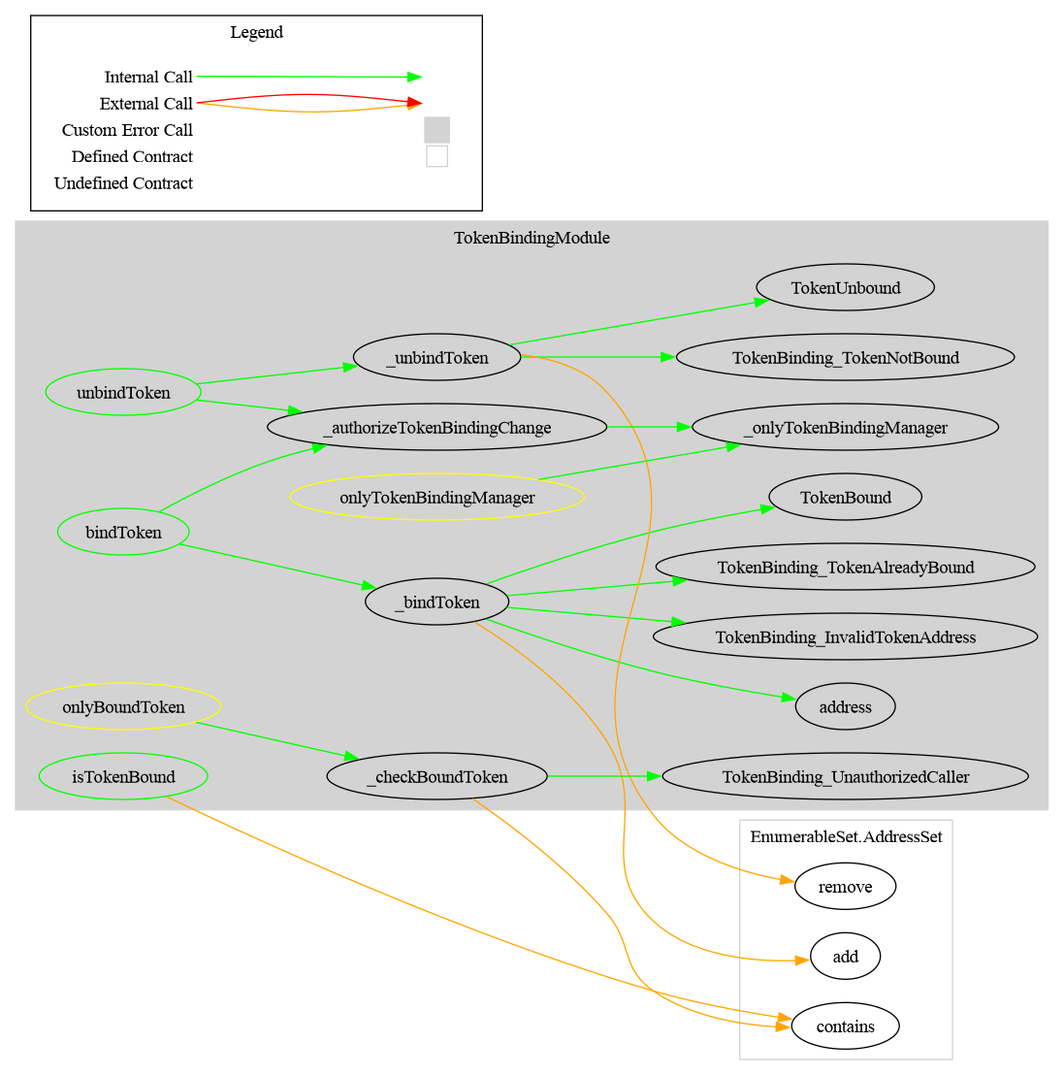
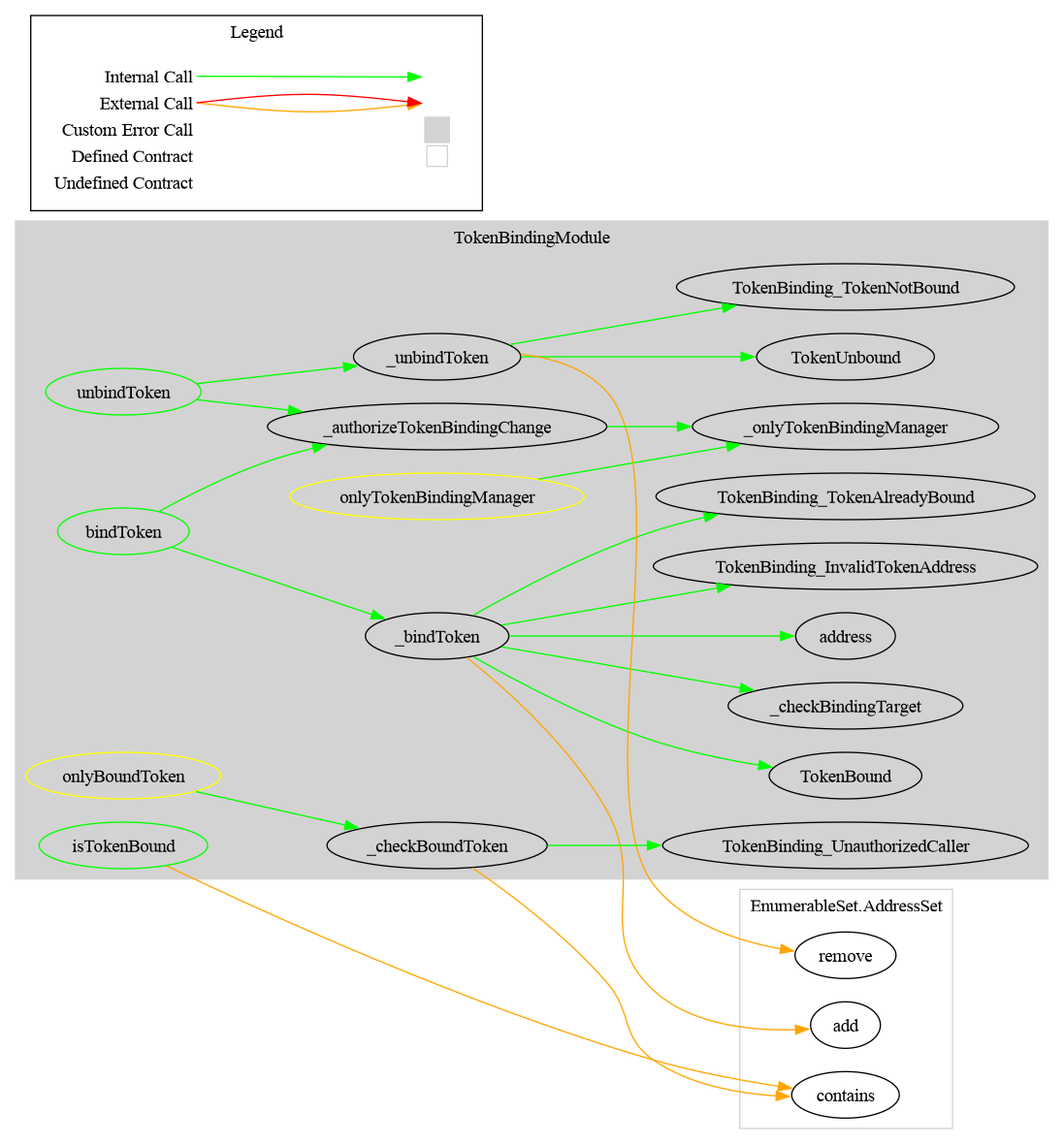
fix: keep rules and bound tokens disjoint - binding a current rule and adding a bound token as a rule now revert, via a new _checkBindingTarget hook in the token binding registry   and a bound-token check in _checkRule; document binding as a trust decision (rc7 security review F-3)

diff --git a/doc/security/audits/tools/v3.0.0-rc7/CLAUDE_AUDIT.md b/doc/security/audits/tools/v3.0.0-rc7/CLAUDE_AUDIT.md
@@ -37,7 +37,7 @@ them, and the codes and messages the views report.
 2. Privileged surface from the Slither printers: every state-changing external function of the six deployables
    and its guard.
 3. Review of each threat against the code and the documentation.
-4. Tests: 86 new tests integrated in the suite, following its convention (a shared base in `test/utils/`, a short
+4. Tests: 105 new tests integrated in the suite, following its convention (a shared base in `test/utils/`, a short
    file per deployable), run in a Docker container (Foundry 1.5.1).
 5. Mutation check: three deliberately broken versions of the code, each caught by a new test.
 6. Adversarial pass, then correction of the findings.
@@ -45,7 +45,7 @@ them, and the codes and messages the views report.
 ## 2. Executive Summary
 
 **0 Critical, 0 High, 0 Medium, 0 Low, 3 Informational** (F-1, F-2, F-3), plus one item already open in the
-code-quality review (F-5). F-1 and F-2 have since been fixed (section 6); F-3 and F-5 remain open. The first pass rated F-1 and F-2 Low; the adversarial pass downgraded them, and
+code-quality review (F-5). F-1, F-2 and F-3 have since been fixed (section 6); F-5 remains open. The first pass rated F-1 and F-2 Low; the adversarial pass downgraded them, and
 dismissed three other items as documented behaviour (F-4, F-6, F-7).
 
 **Cleared hypotheses.** These would have been High or Medium had they held; each was probed and does not:
@@ -68,7 +68,7 @@ dismissed three other items as documented behaviour (F-4, F-6, F-7).
 |----|-------|----------|--------|-----------|-----|
 | F-1 | Pending owner turned rule can accept ownership | Info (was Low) | Fixed | `RuleEngineOwnable2Step.sol:29-32`, inherited `acceptOwnership` | `testNomineeAddedAsRuleBeforeAcceptingBecomesOwner` |
 | F-2 | Self-binding approval survives an administrative unbind | Info (was Low) | Fixed (option 1) | `TokenBindingModule.sol:81`, `TokenBindingExtendedModule.sol:52, 98` | `testApprovedTokenRebindsItselfAfterManagerUnbinds` |
-| F-3 | Any address can be bound, including a rule or an EOA | Info | Open | `TokenBindingModule.sol:100` | `testRuleAddressCanBeBoundAsToken`, `testBoundEoaConsumesStatefulRuleState` |
+| F-3 | Any address can be bound, including a rule or an EOA | Info | Fixed (rules) / documented (EOAs) | `TokenBindingModule.sol:100` | `testCannotBindACurrentRule`, `testCannotAddABoundTokenAsRule`, `testBoundEoaConsumesStatefulRuleState` |
 | F-4 | Views revert when a rule's view reverts | — | Dismissed: documented | `RuleEngineBase.sol:172, 214` | `testViewsRevertWhenARuleViewReverts` |
 | F-5 | `*2771` deployables accept `address(0)` as forwarder | Info | Duplicate of code-quality review `H-3` (open) | constructors of the three `*2771` | `testZeroForwarderIsAccepted` |
 | F-6 | Renouncing administration freezes the configuration | — | Dismissed: OpenZeppelin default, documented | inherited `renounceOwnership` / `renounceRole` | `testRenouncingAdministrationFreezesConfiguration` |
@@ -175,7 +175,7 @@ the token's own unbind fails one.
 ### F-3 — Any address can be bound, including a rule or an EOA (Info)
 
 `_bindToken` checks only for `address(0)` and duplicates. An address can be a rule and a bound token at the same
-time, and a bound externally owned account can drive a stateful rule with no token involved: the PoC consumes a
+time, and a bound **exterwnally** owned account can drive a stateful rule with no token involved: the PoC consumes a
 minter's allowance. Binding is therefore a full trust decision of the manager. A code-size check would not be a
 defence (it is bypassed during construction).
 
@@ -209,6 +209,22 @@ be fixed in code:
   trusted to report token operations; it can drive every stateful rule (consume approvals, allowances, counters)
   without moving any token; bind only the token contracts the engine is meant to serve.
 - `testBoundEoaConsumesStatefulRuleState` stays as the illustration of why.
+
+**Fixed: both parts.**
+
+- **Part 1, code.** `TokenBindingModule._bindToken` calls a new empty hook, `_checkBindingTarget`, which
+  `RuleEngineBase` overrides to reject a current rule; `RuleEngineBase._checkRule` rejects a bound token. Both revert
+  with `RuleEngine_RulesManagementModule_RuleAccountCannotReceivePrivileges`, so the ABI is unchanged and the
+  reusable registry stays free of rule logic.
+- **Coverage of the paths.** Every binding path (`bindToken`, `bindTokens`, a rule binding itself with an
+  approval) and every rule path (`addRule`, `setRules`) goes through one of the two checks.
+- **Part 2, documentation.** The `bindToken` NatSpec, the registry's `_bindToken` NatSpec and
+  `TokenBinding-module.md` §4 state that binding is a trust decision.
+- **Tests, on all six deployables.** The proof of concept became `testCannotBindACurrentRule` and
+  `testCannotAddABoundTokenAsRule`; `testRuleAndTokenRolesCanBeSwappedSequentially` covers the legitimate
+  sequences; the invariant handler now also tries to bind rule addresses, with a new
+  `invariant_RulesAndBoundTokensAreDisjoint`. Removing either check fails its regression test and the invariant.
+  `testBoundEoaConsumesStatefulRuleState` stays as the documented illustration.
 
 ### F-4 — Views revert when a rule's view reverts (dismissed)
 
@@ -245,7 +261,7 @@ interface and is documented in `RuleEngine-with-ERC3643.md`.
 | INV-5 | Token identity is `msg.sender`, never the forwarder's appended sender | Yes | ERC-2771 token-gate suites, 3 deployables |
 | INV-6 | Every admin entry point rejects every other caller | Yes | `testFuzz_NonAuthorizedCallerCannotAdminister`, 11 functions, 6 × 256 runs; mutation-checked |
 | INV-7 | `canTransfer == (detectTransferRestriction == 0)`, and the 4-argument equivalent | Yes | rule-aggregation fuzz, 6 deployables |
-| INV-8 | An address in the rule set cannot be granted a role or become owner | Yes for roles and ownership; not applied to binding (F-3) | checked at grant, at nomination and, since the F-1 fix, at `Ownable2Step` acceptance (`RuleGuard.t.sol`, mutation-checked) |
+| INV-8 | An address in the rule set cannot be granted a role, become owner, or be bound as a token, and a bound token cannot become a rule | Yes | checked at grant, at nomination, at `Ownable2Step` acceptance (F-1) and at binding / rule addition (F-3); `RuleGuard.t.sol`, `invariant_RulesAndBoundTokensAreDisjoint` (6 deployables), mutation-checked |
 | INV-9 | `getTokenBounds()` holds no duplicate and no `address(0)` | Yes | `invariant_BoundTokensMatchModel`, 6 deployables |
 
 The handler-based invariants run in the default suite at 64 sequences of 50 calls; they also passed once at
@@ -257,7 +273,7 @@ Foundry's defaults (256 × 500, 128 000 calls each).
 |---|---|---|---|
 | `addRule`, `removeRule`, `setRules`, `clearRules` | `RULES_MANAGEMENT_ROLE` | owner | fuzz × 6 |
 | `setMaxRules` | `DEFAULT_ADMIN_ROLE` | owner | fuzz × 6, mutation-checked |
-| `bindToken`, `unbindToken` | `COMPLIANCE_MANAGER_ROLE`, or an approved token for itself | owner, or an approved token for itself | fuzz × 6, existing self-binding tests |
+| `bindToken`, `unbindToken` | `COMPLIANCE_MANAGER_ROLE`, or an approved token for itself; a current rule cannot be bound | owner, or an approved token for itself; a current rule cannot be bound | fuzz × 6, existing self-binding tests |
 | `bindTokens`, `unbindTokens`, `setTokenSelfBindingApproval(Batch)` | `COMPLIANCE_MANAGER_ROLE` | owner | fuzz × 6 |
 | `transferred` (3/4), `created`, `destroyed` | bound token (`msg.sender`) | same | fuzz × 6, mutation-checked |
 | `grantRole` | role admin; the target must not be a rule | — | existing tests |
@@ -273,25 +289,26 @@ call any administrative function, even from inside its callback.
 
 ## 6. Remediation — What Was Implemented
 
-Two findings were fixed after the review; the others are open.
+Three findings were fixed after the review; F-5 (H-3) is open.
 
 | Item | Status | What changed | Verified by |
 |---|---|---|---|
 | F-1 | Fixed | `RuleEngineOwnable2Step.acceptOwnership` re-checks that the caller is not a rule (inherited by `RuleEngineOwnable2Step2771`). Behaviour change: a nominee that became a rule can no longer accept until it is removed from the rule set | PoC inverted into a regression test, plus a recovery test, on both deployables; removing the check makes both fail |
 | F-2 | Fixed | A manager's `unbindToken` / `unbindTokens` revokes the token's self-binding approval (`_unbindToken` override, single approval write path). Behaviour change: an ERC-3643 token unbound by the manager needs a new approval before it can bind itself; a token unbinding itself keeps its approval | PoC inverted into a regression test, plus batch, self-unbind and event tests on six deployables; mutation-checked |
-| F-3 | Open | Behaviour unchanged; pinned on six deployables | `SecurityReview.t.sol` |
+| F-3 | Fixed (rules) / documented (EOAs) | `_checkBindingTarget` hook in `TokenBindingModule`, overridden in `RuleEngineBase` to reject a current rule; `_checkRule` rejects a bound token; NatSpec and `TokenBinding-module.md` document binding as a trust decision. Behaviour change: an address can no longer be both a rule and a bound token | PoC inverted into two regression tests, plus a sequencing test and a new handler invariant on six deployables; mutation-checked |
 | F-5 / H-3 | Open | Behaviour unchanged; pinned on three deployables | `ERC2771VariantTestBase` |
 | Access control, unbound callers | Verified | New fuzz tests on six deployables | mutation-checked |
 
-**Tests added.** 86 tests: `test/utils/SecurityReviewTestBase.sol` (13 tests, run by `test/<Variant>/SecurityReview.t.sol`
-for the six deployables), `test/utils/Ownable2StepRuleGuardTestBase.sol` (3 tests, run by `RuleGuard.t.sol` for the
+**Tests added.** 105 tests: `test/utils/SecurityReviewTestBase.sol` (15 tests, run by `test/<Variant>/SecurityReview.t.sol`
+for the six deployables), `invariant_RulesAndBoundTokensAreDisjoint` in `test/utils/RuleEngineInvariantTestBase.sol`
+(six deployables), `test/utils/Ownable2StepRuleGuardTestBase.sol` (3 tests, run by `RuleGuard.t.sol` for the
 two `Ownable2Step` deployables), `testZeroForwarderIsAccepted` in `test/utils/ERC2771VariantTestBase.sol` (three
-`*2771` deployables), and two test-only rules, `RevertingViewRule` and `ReentrantAdminRule`. Suite: 592 tests, all
+`*2771` deployables), and two test-only rules, `RevertingViewRule` and `ReentrantAdminRule`. Suite: 610 tests, all
 passing; the real T-REX suite: 13, all passing; coverage of `src/` at 100% of lines, statements,
-branches (50/50) and functions.
+branches (54/54) and functions.
 
 Several new tests pin today's behaviour of an open item. When an item is fixed, its PoC is expected to fail and must
-be inverted into a regression test, as was done for F-1 and F-2: applying each fix made its PoC fail, and the PoC
+be inverted into a regression test, as was done for F-1, F-2 and F-3: applying each fix made its PoC fail, and the PoC
 was then rewritten to assert the fixed behaviour.
 
 ## 7. Potential Improvements (open backlog)
@@ -300,12 +317,7 @@ These are hardening items, not vulnerabilities.
 
 | # | Improvement | Addresses | Effort | Breaking? | Priority |
 |---|---|---|---|---|---|
-| 1 | Keep rules and bound tokens disjoint: a binding hook overridden in `RuleEngineBase`, and a bound-token check in `_checkRule` (F-3 part 1) | F-3 | Small | Rejects two configurations accepted today | Low |
-| 2 | Document binding as a full trust decision: EOAs and arbitrary contracts are accepted and can drive stateful rules (F-3 part 2) | F-3 | Docs | No | Low |
-| 3 | Decide `H-3`: reject `address(0)` as forwarder in the three `*2771` constructors (not in `ERC2771ModuleStandalone`, which the mock rules use with zero) | F-5 | Small | Constructor rejects a value it accepts today | Low |
-
-Item 1 changes which configurations the engine accepts (an address can no longer be both a rule and a bound
-token), so it is a decision for the maintainers rather than a defect fix.
+| 1 | Decide `H-3`: reject `address(0)` as forwarder in the three `*2771` constructors (not in `ERC2771ModuleStandalone`, which the mock rules use with zero) | F-5 | Small | Constructor rejects a value it accepts today | Low |
 
 ## 8. Scope & Duplicate Check
 

diff --git a/CHANGELOG.md b/CHANGELOG.md
@@ -120,7 +120,7 @@ Commit:
 
 Security hardening of the ERC-2771 token-identity checks, and ERC-2771 becomes opt-in: each access-control model is split into a contract without ERC-2771 (`RuleEngine`, `RuleEngineOwnable`, `RuleEngineOwnable2Step`) and a `*2771` contract with the trusted forwarder (`RuleEngine2771`, `RuleEngineOwnable2771`, `RuleEngineOwnable2Step2771`). The trusted forwarder can no longer pass as a token: the bound-token gate and the token self-binding check now compare `msg.sender`. The CMTAT submodule moves to v3.3.0-rc4 and the ERC-3643 submodule to T-REX 4.2.0-beta1, which is now tested end-to-end in a dedicated Foundry profile. The CMTAT / Rules documentation is corrected and completed. `version()` now carries the release-candidate suffix. The code-quality review fixes add a narrower `IRule` interface (the previous one is still accepted), one error fewer, the deployables grouped in `src/deployment/accessControl/` and `src/deployment/ownable/`, and invariant tests.
 
-rc7 is **not** a drop-in update from rc6: it changes three constructors, who may call the token callbacks, the `version()` string, the source paths of the deployables, the error set, the `IRule` ERC-165 ID that new rules advertise, and what a manager's unbind does to a token's self-binding approval. Each is listed below with what to do.
+rc7 is **not** a drop-in update from rc6: it changes three constructors, who may call the token callbacks, the `version()` string, the source paths of the deployables, the error set, the `IRule` ERC-165 ID that new rules advertise, what a manager's unbind does to a token's self-binding approval, and whether an address may be both a rule and a bound token. Each is listed below with what to do.
 
 ### Breaking change
 
@@ -128,6 +128,7 @@ rc7 is **not** a drop-in update from rc6: it changes three constructors, who may
 - **Token callbacks and token self-binding are no longer relayable through the ERC-2771 forwarder.** `transferred`, `created` and `destroyed` (`onlyBoundToken`), and a token's own `bindToken` / `unbindToken(this)`, now identify the token by `msg.sender` instead of `_msgSender()`. A call that the trusted forwarder relays with a token address appended is rejected (`TokenBinding_UnauthorizedCaller`, or the binding-manager check for the self-binding path). Real tokens are unaffected, because they always call the engine directly. Only a setup that relayed token callbacks through the forwarder breaks, and no legitimate setup does. Administrative functions are unchanged and remain relayable.
 - **`version()` return value format.** It now returns `"3.0.0-rc7"` instead of `"3.0.0"`. An integration that compares the string literally (deployment checks, indexers, upgrade scripts) must be updated, and must expect the suffix to change at each release candidate.
 - **A manager unbind revokes self-binding approval.** An ERC-3643 token unbound by the binding manager must be approved again (`setTokenSelfBindingApproval`) before it can bind itself through `setCompliance`. Tokens that unbind themselves are unaffected. See Security.
+- **An address can no longer be both a rule and a bound token.** `bindToken` / `bindTokens` reject a current rule and `addRule` / `setRules` reject a bound token (`RuleEngine_RulesManagementModule_RuleAccountCannotReceivePrivileges`). A deployment that bound a rule address, or used a bound token as a rule, must choose one role. See Security.
 - **Deployable source paths.** The six deployables moved from `src/deployment/` to `src/deployment/accessControl/` (`RuleEngine`, `RuleEngine2771`) and `src/deployment/ownable/` (the four ownable contracts). A project that imports them, or a script that names the file (`forge create src/deployment/RuleEngine.sol:RuleEngine`), must update the path. Contract names, constructors and ABIs are unchanged.
 - **Error removed: `RuleEngine_RulesManagementModule_OperationNotSuccessful`.** It could not be triggered (the checks before it always reverted first), so no transaction emitted it, but it disappears from the ABI. Off-chain decoders that list the engine's errors (indexers, monitoring, block explorers, scripts that map a selector to a revert reason) should drop it. Duplicate and absent rules still revert with `RuleEngine_RulesManagementModule_RuleAlreadyExists` and `RuleEngine_RulesManagementModule_RuleDoNotMatch`.
 - **`IRule` ERC-165 ID: `0xb1a69752` for new rules, `0x2497d6cb` still accepted.** `IRule` no longer requires `canTransfer` / `canTransferFrom`, so `RuleInterfaceId.IRULE_INTERFACE_ID` changes from `0x2497d6cb` to `0xb1a69752`. Existing rules need no change: the rc7 engine accepts both IDs. The reverse is not true: a rule compiled against rc7 that advertises only `RuleInterfaceId.IRULE_INTERFACE_ID` is rejected by an rc6 or older engine (`RuleEngine_RuleInvalidInterface`). A rule meant to work with both generations advertises both IDs (`RuleInterfaceId.IRULE_LEGACY_INTERFACE_ID` is provided for that).
@@ -138,6 +139,7 @@ rc7 is **not** a drop-in update from rc6: it changes three constructors, who may
 - **The trusted ERC-2771 forwarder can no longer act as a token.** `TokenBindingModule._checkBoundToken` (the `onlyBoundToken` gate) and the token self-binding check in `TokenBindingExtendedModule._authorizeTokenBindingChange` compared `_msgSender()`, so a trusted forwarder could append a token's address and pass as that token. It could (a) call `transferred` / `created` / `destroyed` with no token movement, driving stateful rules, for example consuming a per-minter mint quota or a one-time transfer approval; and (b) call `unbindToken(token)` for a token approved for self-binding, after which every operation of that token reverted until it was re-bound. Both checks now compare the raw `msg.sender`; a token never calls through a forwarder. A signature-verifying forwarder could not produce these calls, because a token cannot sign, so the exposure was limited to a buggy, malicious or permissive forwarder. This aligns with CMTAT's `onlyTokenBridge` and with CMTAT's RuleEngine integration guide. The administrative checks keep `_msgSender()`, so gasless administration is unchanged.
 - **`RuleEngineOwnable2Step` re-checks the rule-account guard in `acceptOwnership`.** The check that keeps rule contracts away from ownership ran only at nomination (`transferOwnership`), so an address nominated while it was not a rule, then added as a rule, could still accept and own the engine. `acceptOwnership` now reverts with `RuleEngine_RulesManagementModule_RuleAccountCannotReceivePrivileges` in that case; the transfer completes once the address is removed from the rule set. Applies to `RuleEngineOwnable2Step2771` too. Required two actions by the trusted owner. rc7 security review `F-1` ([CLAUDE_AUDIT.md](./doc/security/audits/tools/v3.0.0-rc7/CLAUDE_AUDIT.md)).
 - **An administrative unbind revokes the token's self-binding approval.** `unbindToken` and `unbindTokens` called by the binding manager now also clear the token's self-binding approval (`TokenBindingExtendedModule._unbindToken`, emitting `TokenSelfBindingApprovalSet(token, false)`). Before, an approved token could bind itself again right after the manager unbound it, undoing the manager's decision. A token unbinding itself keeps its approval, so ERC-3643 `setCompliance` migrations are unchanged. The approval setter now goes through `_setTokenSelfBindingApproval`, the single write path of the per-token event. rc7 security review `F-2` ([CLAUDE_AUDIT.md](./doc/security/audits/tools/v3.0.0-rc7/CLAUDE_AUDIT.md)).
+- **Rules and bound tokens are kept disjoint.** Binding a current rule (`bindToken`, `bindTokens`, or a rule binding itself with a self-binding approval) now reverts with `RuleEngine_RulesManagementModule_RuleAccountCannotReceivePrivileges`, and so does adding a bound token as a rule (`addRule`, `setRules`). Binding lets an address drive every rule, so a rule that was also a bound token could call the engine's callbacks from inside its own `transferred` hook. Implemented with a new empty hook in the reusable registry, `TokenBindingModule._checkBindingTarget`, overridden by `RuleEngineBase`, and a bound-token check in `RuleEngineBase._checkRule`. The NatSpec and `TokenBinding-module.md` now state that binding is a trust decision: an EOA or any other contract can still be bound. rc7 security review `F-3` ([CLAUDE_AUDIT.md](./doc/security/audits/tools/v3.0.0-rc7/CLAUDE_AUDIT.md)).
 
 ### Changed
 

diff --git a/doc/technical/TokenBinding-module.md b/doc/technical/TokenBinding-module.md
@@ -61,6 +61,7 @@ Two hooks are left to the embedding contract:
 |---|---|---|
 | `_onlyTokenBindingManager()` | access control for binding administration | abstract, must be implemented |
 | `_authorizeTokenBindingChange(address token)` | authorizes one bind/unbind | manager check |
+| `_checkBindingTarget(address token)` | host-specific restriction on which addresses may be bound; reverts to reject | empty (`RuleEngineBase` rejects current rules) |
 
 A minimal deployment therefore only has to wire its access control model:
 
@@ -119,6 +120,13 @@ These are properties of the registry itself, not of any standard built on it.
 - **Binding and unbinding are not idempotent.** Re-binding a bound token reverts with
   `TokenBinding_TokenAlreadyBound`, and unbinding an unbound one with `TokenBinding_TokenNotBound`, so a
   redundant administrative call is reported rather than silently accepted.
+- **Binding is a trust decision.** A bound address can drive every stateful downstream check (consume
+  approvals, allowances, counters) without moving any token. The registry cannot tell a token contract from an
+  EOA or any other contract, and a code-size check would not help: it is false for a contract under
+  construction, and it would block binding a token before it is deployed at a counterfactual (CREATE2) address.
+  Bind only the token contracts the host is meant to serve. The RuleEngine adds one restriction through
+  `_checkBindingTarget`: an address that is currently a rule cannot be bound, and `_checkRule` rejects a bound
+  token as a rule, so the two sets stay disjoint.
 - **An administrative unbind revokes the self-binding approval.** When the binding manager unbinds a token
   (`unbindToken` or `unbindTokens`), `TokenBindingExtendedModule._unbindToken` also clears the token's
   self-binding approval and emits `TokenSelfBindingApprovalSet(token, false)`, so the token cannot undo the

diff --git a/AGENTS.md b/AGENTS.md
@@ -349,7 +349,8 @@ Key points:
 5. **Admin has all roles** in `RuleEngine` and `RuleEngine2771` (the `hasRole` override in `RuleEngine`, inherited by `RuleEngine2771`)
 6. **Forwarder is immutable** — set at construction, cannot be changed (the three `*2771` contracts; the others have none)
 7. **Token identity uses `msg.sender`, never `_msgSender()`** — `_checkBoundToken` (`onlyBoundToken`) and the token self-binding check in `_authorizeTokenBindingChange` compare the raw caller so the ERC-2771 forwarder cannot pass as a token; administrative checks keep `_msgSender()` (gasless admin). Pinned by `test/utils/ERC2771TokenGateTestBase.sol`
-8. **Rule contracts in `src/mocks/` are reference implementations** — they are useful for testing and examples, not as production rule contracts. Production rules live in a [separate repository](https://github.com/CMTA/Rules).
+8. **Rules and bound tokens are disjoint** — `RuleEngineBase._checkBindingTarget` rejects binding a current rule and `_checkRule` rejects adding a bound token as a rule, both with `RuleEngine_RulesManagementModule_RuleAccountCannotReceivePrivileges`. Pinned by `invariant_RulesAndBoundTokensAreDisjoint`
+9. **Rule contracts in `src/mocks/` are reference implementations** — they are useful for testing and examples, not as production rule contracts. Production rules live in a [separate repository](https://github.com/CMTA/Rules).
 
 ## Solidity Style
 

diff --git a/CLAUDE.md b/CLAUDE.md
@@ -349,7 +349,8 @@ Key points:
 5. **Admin has all roles** in `RuleEngine` and `RuleEngine2771` (the `hasRole` override in `RuleEngine`, inherited by `RuleEngine2771`)
 6. **Forwarder is immutable** — set at construction, cannot be changed (the three `*2771` contracts; the others have none)
 7. **Token identity uses `msg.sender`, never `_msgSender()`** — `_checkBoundToken` (`onlyBoundToken`) and the token self-binding check in `_authorizeTokenBindingChange` compare the raw caller so the ERC-2771 forwarder cannot pass as a token; administrative checks keep `_msgSender()` (gasless admin). Pinned by `test/utils/ERC2771TokenGateTestBase.sol`
-8. **Rule contracts in `src/mocks/` are reference implementations** — they are useful for testing and examples, not as production rule contracts. Production rules live in a [separate repository](https://github.com/CMTA/Rules).
+8. **Rules and bound tokens are disjoint** — `RuleEngineBase._checkBindingTarget` rejects binding a current rule and `_checkRule` rejects adding a bound token as a rule, both with `RuleEngine_RulesManagementModule_RuleAccountCannotReceivePrivileges`. Pinned by `invariant_RulesAndBoundTokensAreDisjoint`
+9. **Rule contracts in `src/mocks/` are reference implementations** — they are useful for testing and examples, not as production rule contracts. Production rules live in a [separate repository](https://github.com/CMTA/Rules).
 
 ## Solidity Style
 

diff --git a/doc/technical/RuleEngine-with-CMTAT.md b/doc/technical/RuleEngine-with-CMTAT.md
@@ -207,7 +207,7 @@ operation and the token's views, so it is trusted for availability too. See CMTA
 [`ruleengine-integration.md`](https://github.com/CMTA/CMTAT/blob/v3.3.0-rc4/doc/technical/ruleengine-integration.md) §"Deployment Coverage".
 
 Do not grant `RULES_MANAGEMENT_ROLE` to a rule contract — the engine blocks granting any role
-to an address currently configured as a rule, but the check is one-directional and does not stop an already privileged address from later being added as a rule. The ownable variants apply the same check to a new owner, and `RuleEngineOwnable2Step` applies it both when the owner is nominated and when it accepts.
+to an address currently configured as a rule, but the check is one-directional and does not stop an already privileged address from later being added as a rule. The ownable variants apply the same check to a new owner, and `RuleEngineOwnable2Step` applies it both when the owner is nominated and when it accepts. Binding is checked in both directions: a current rule cannot be bound as a token, and a bound token cannot be added as a rule.
 
 ### 4.7 The trusted forwarder cannot act as a token
 

diff --git a/doc/README.md b/doc/README.md
@@ -853,6 +853,7 @@ constructor(
 | └ | _detectTransferRestrictionFrom | Internal 🔒 |   | |
 | └ | _messageForTransferRestriction | Internal 🔒 |   | |
 | └ | _checkRule | Internal 🔒 |   | |
+| └ | _checkBindingTarget | Internal 🔒 |   | |
 | └ | _supportsRuleInterface | Internal 🔒 |   | |
 | └ | _supportsRuleEngineBaseInterface | Internal 🔒 |   | |
 
@@ -1231,6 +1232,7 @@ under `ERC3643ComplianceExtendedModule`, since that is the form in which the Rul
 | └ | unbindToken | Public ❗ | 🛑  |NO❗ |
 | └ | isTokenBound | Public ❗ |   |NO❗ |
 | └ | _bindToken | Internal 🔒 | 🛑  | |
+| └ | _checkBindingTarget | Internal 🔒 |   | |
 | └ | _unbindToken | Internal 🔒 | 🛑  | |
 | └ | _authorizeTokenBindingChange | Internal 🔒 | 🛑  | |
 | └ | _onlyTokenBindingManager | Internal 🔒 | 🛑  | |

diff --git a/doc/schema/surya/surya_report/surya_report_TokenBindingModule.sol.md b/doc/schema/surya/surya_report/surya_report_TokenBindingModule.sol.md
@@ -5,7 +5,7 @@
 
 |  File Name  |  SHA-1 Hash  |
 |-------------|--------------|
-| ./modules/TokenBindingModule.sol | 27df27b3fdd6edab220948b1871b0ae1c0ecbb42 |
+| ./modules/TokenBindingModule.sol | 290217014db5b97af70da677d27a410d8bff13a8 |
 
 
 ### Contracts Description Table
@@ -20,6 +20,7 @@
 | └ | unbindToken | Public ❗ | 🛑  |NO❗ |
 | └ | isTokenBound | Public ❗ |   |NO❗ |
 | └ | _bindToken | Internal 🔒 | 🛑  | |
+| └ | _checkBindingTarget | Internal 🔒 |   | |
 | └ | _unbindToken | Internal 🔒 | 🛑  | |
 | └ | _authorizeTokenBindingChange | Internal 🔒 | 🛑  | |
 | └ | _onlyTokenBindingManager | Internal 🔒 | 🛑  | |

diff --git a/doc/schema/surya/surya_report/surya_report_RuleEngineBase.sol.md b/doc/schema/surya/surya_report/surya_report_RuleEngineBase.sol.md
@@ -5,7 +5,7 @@
 
 |  File Name  |  SHA-1 Hash  |
 |-------------|--------------|
-| ./RuleEngineBase.sol | 8ebf676aeff51322a26287b3bacb937a0c84b878 |
+| ./RuleEngineBase.sol | b3e23e67108b67eec5504c9d0eac81d10a43f669 |
 
 
 ### Contracts Description Table
@@ -29,6 +29,7 @@
 | └ | _detectTransferRestrictionFrom | Internal 🔒 |   | |
 | └ | _messageForTransferRestriction | Internal 🔒 |   | |
 | └ | _checkRule | Internal 🔒 |   | |
+| └ | _checkBindingTarget | Internal 🔒 |   | |
 | └ | _supportsRuleInterface | Internal 🔒 |   | |
 | └ | _supportsRuleEngineBaseInterface | Internal 🔒 |   | |
 

diff --git a/doc/schema/surya/surya_report/surya_report_ITokenBinding.sol.md b/doc/schema/surya/surya_report/surya_report_ITokenBinding.sol.md
@@ -5,7 +5,7 @@
 
 |  File Name  |  SHA-1 Hash  |
 |-------------|--------------|
-| ./interfaces/ITokenBinding.sol | 34577f126b9728d7c7d39150a115a5d13ac17318 |
+| ./interfaces/ITokenBinding.sol | 7c1a1c3678372298dcee9111167db0416813dc33 |
 
 
 ### Contracts Description Table
